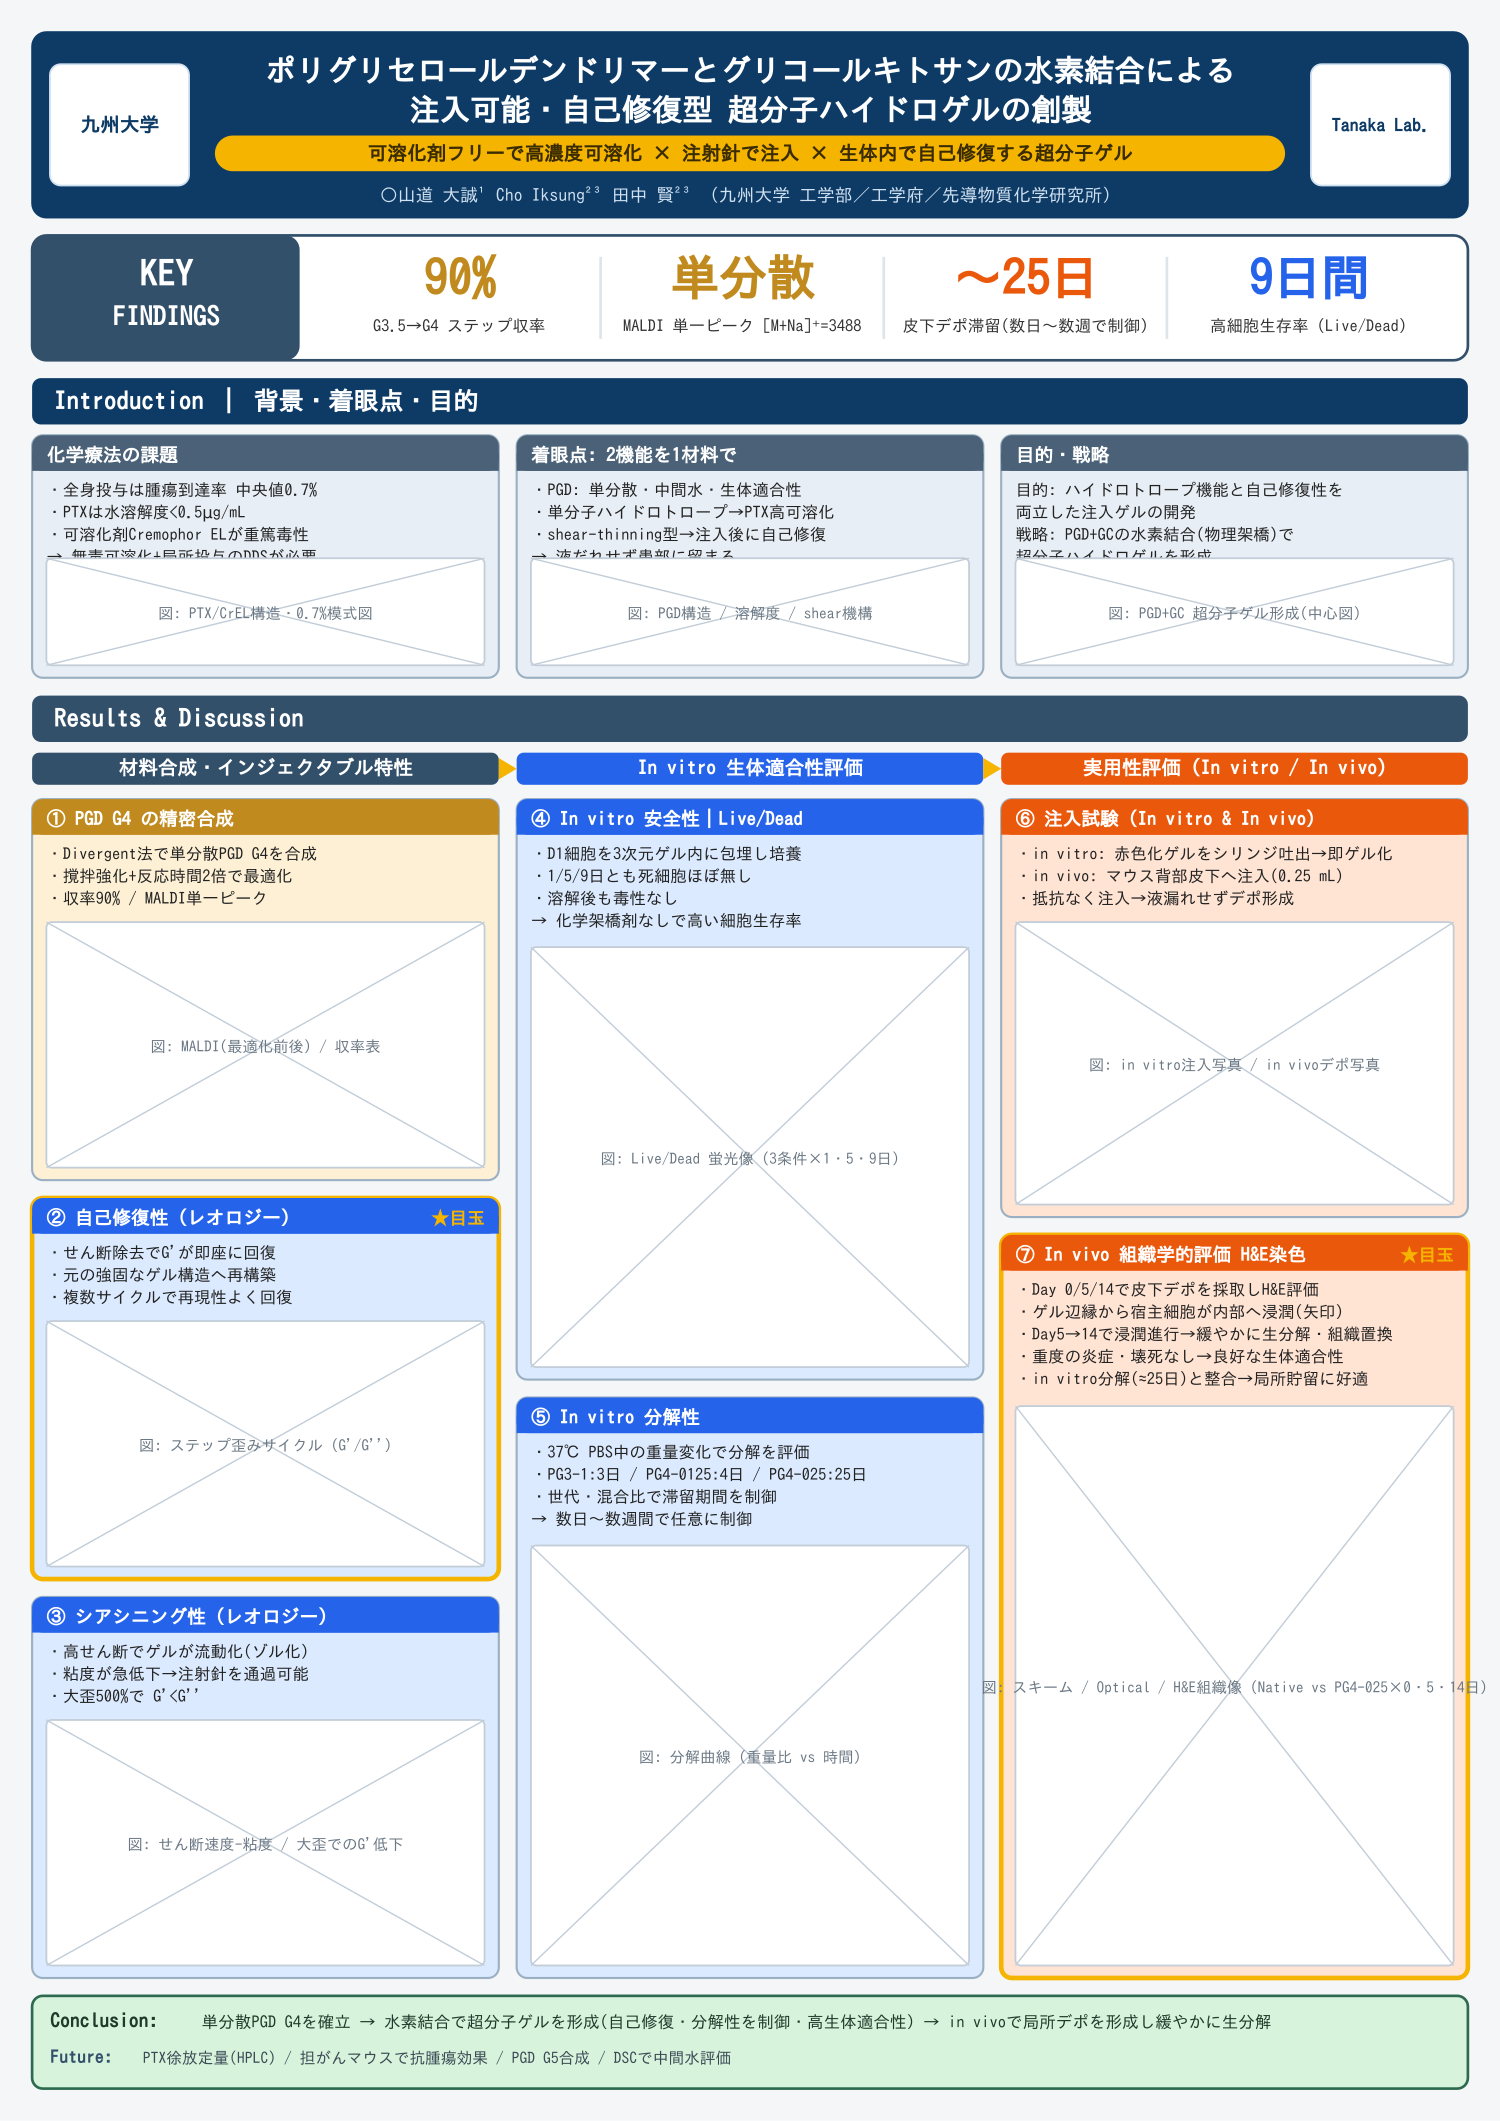
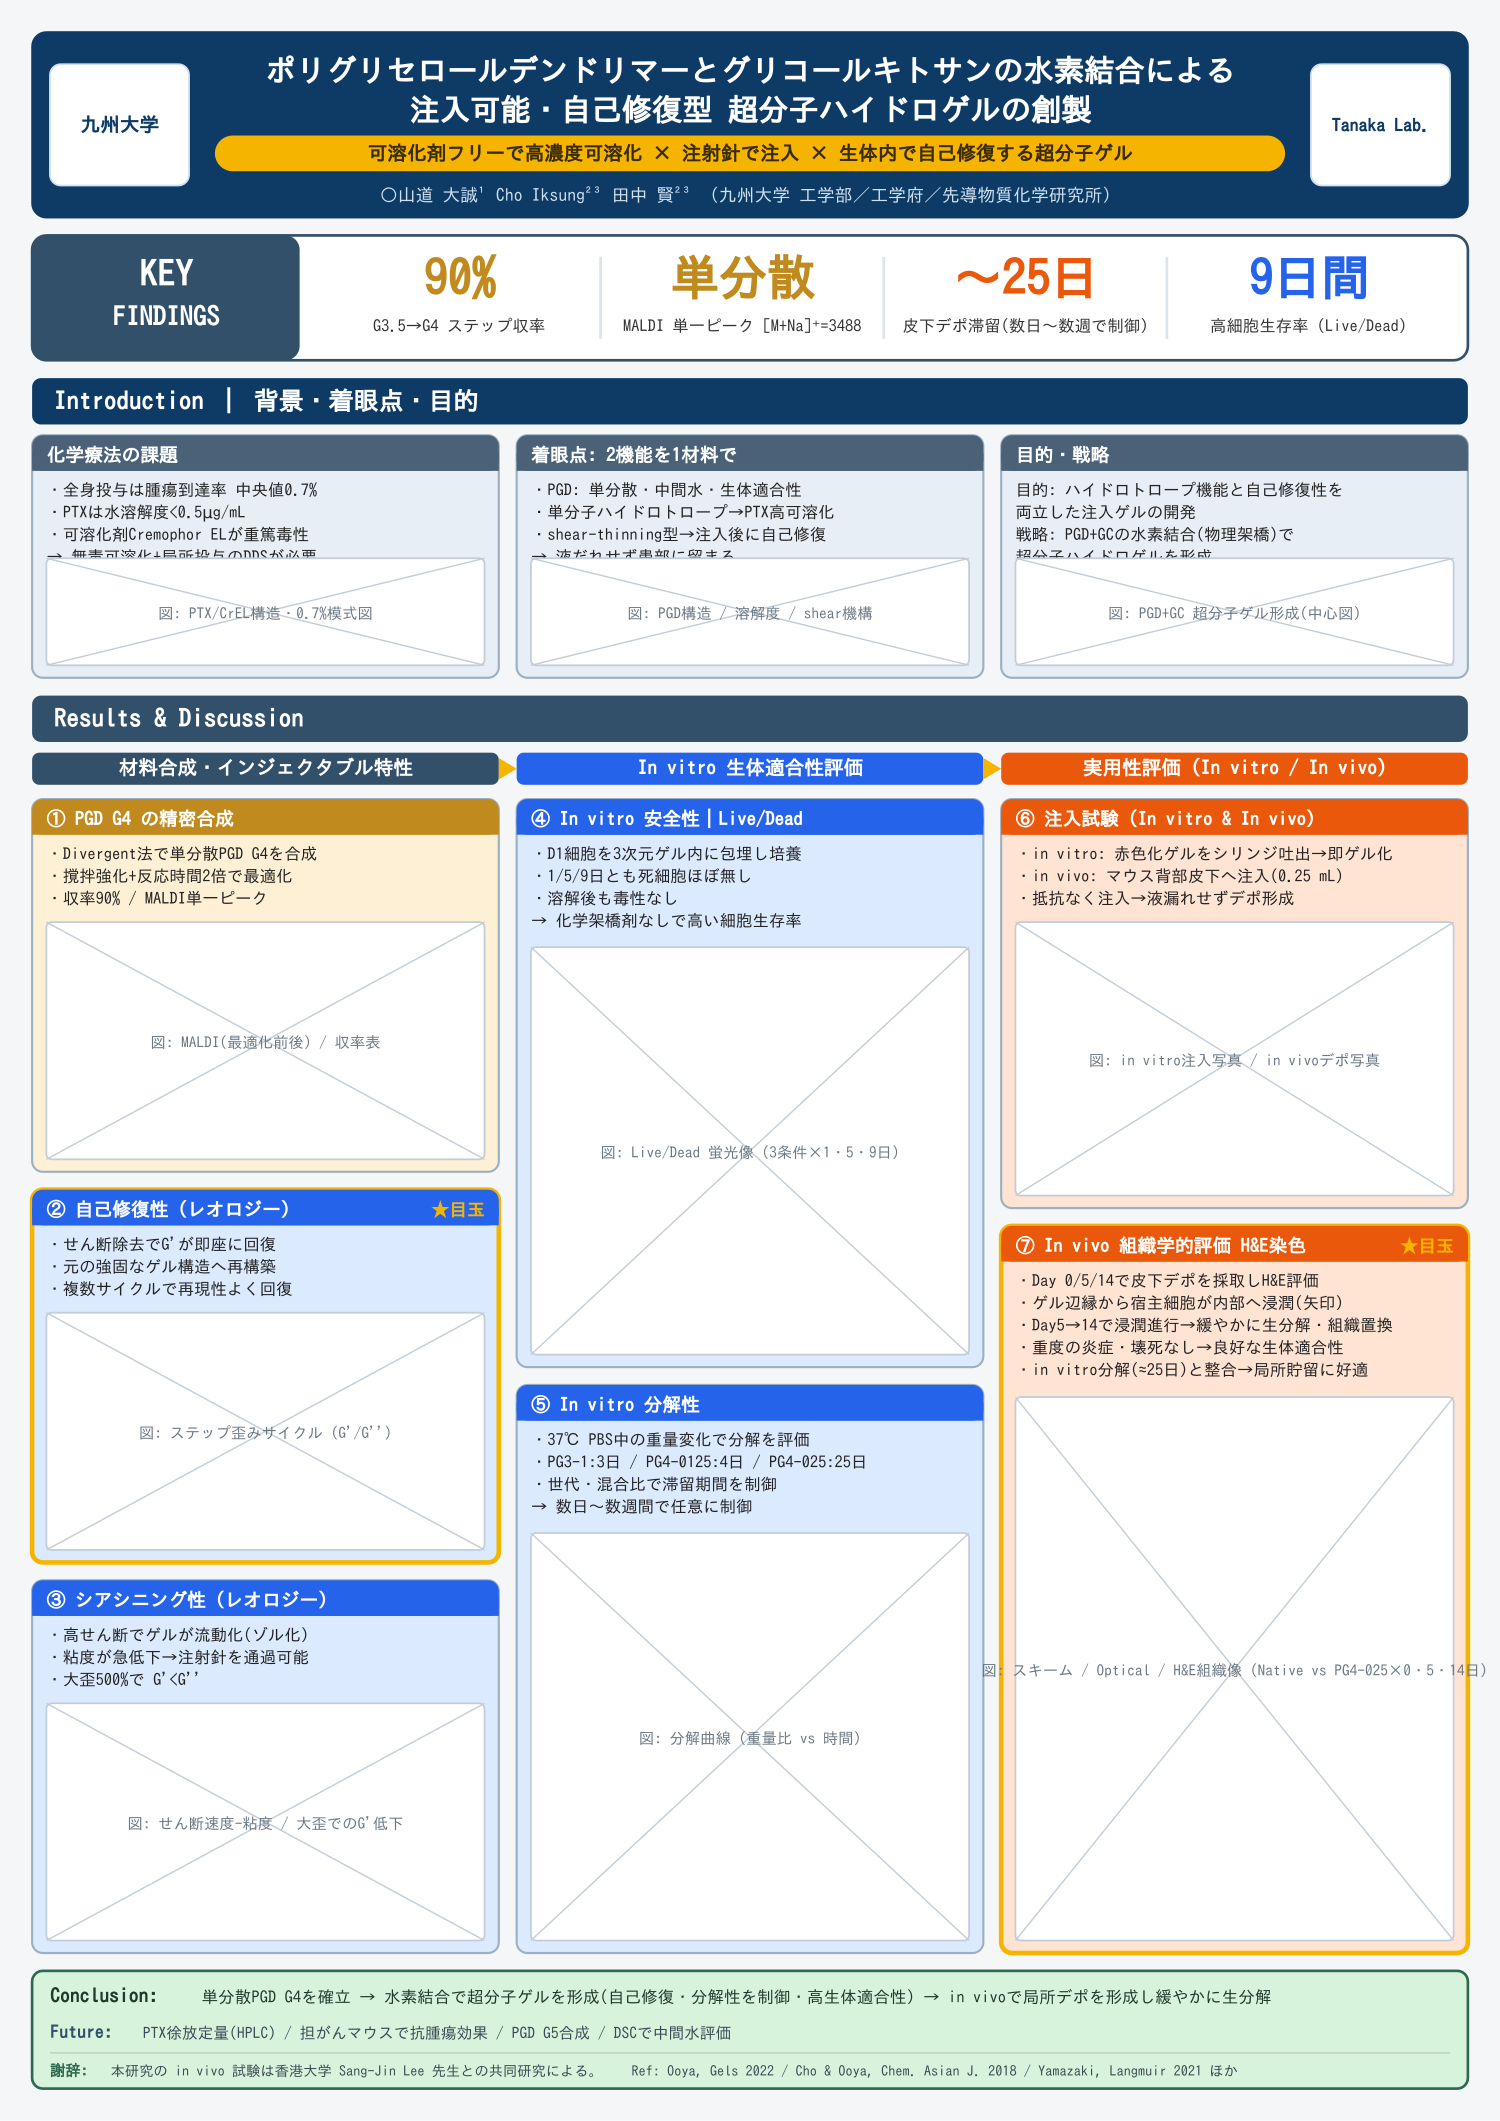
v2に謝辞行を追加(Sang-Jin Lee先生 共同研究クレジット+参考文献)

diff --git a/poster/make_poster_v2.py b/poster/make_poster_v2.py
@@ -127,7 +127,7 @@ panel(sxs[2], sub_y, sw3, sub_h, "目的・戦略",
 ry = iy + ih + gap
 sectionbar(cx, ry, cw, "Results & Discussion", SEC)
 
-band_conc_h = 52
+band_conc_h = 66
 conc_y = H - M - band_conc_h
 
 colw = (cw - 2*gap)/3
@@ -206,6 +206,13 @@ text(cx+95, conc_y+18, "単分散PGD G4を確立 → 水素結合で超分子ゲ
 text(cx+10, conc_y+38, "Future:", size=10, color=SEC, weight="bold")
 text(cx+62, conc_y+38, "PTX徐放定量(HPLC) / 担がんマウスで抗腫瘍効果 / PGD G5合成 / DSCで中間水評価",
      size=8.8, color="#3a4a55")
+# 謝辞 + 参考文献(最下行・小フォント)
+add(f'<line x1="{cx+10}" y1="{conc_y+46}" x2="{cx+cw-10}" y2="{conc_y+46}" stroke="#bcd0bf" stroke-width="0.8"/>')
+text(cx+10, conc_y+59, "謝辞:", size=8.5, color="#2d6a4f", weight="bold")
+text(cx+44, conc_y+59,
+     "本研究の in vivo 試験は香港大学 Sang-Jin Lee 先生との共同研究による。"
+     "　　Ref: Ooya, Gels 2022 / Cho & Ooya, Chem. Asian J. 2018 / Yamazaki, Langmuir 2021 ほか",
+     size=8, color="#3a4a55")
 
 add('</svg>')
 open("poster/poster_v2.svg","w",encoding="utf-8").write("\n".join(svg))
